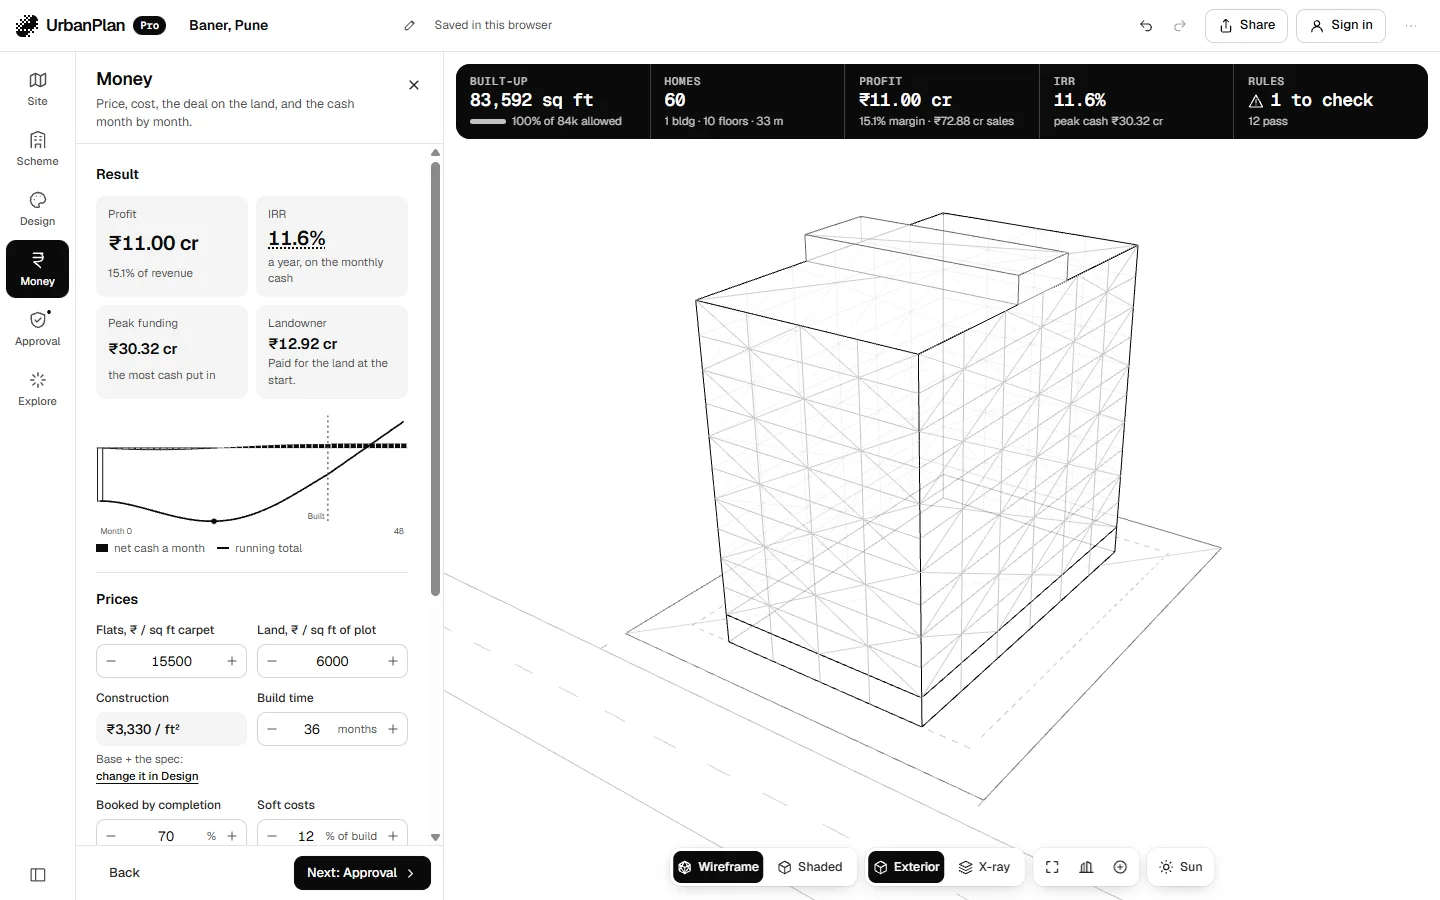
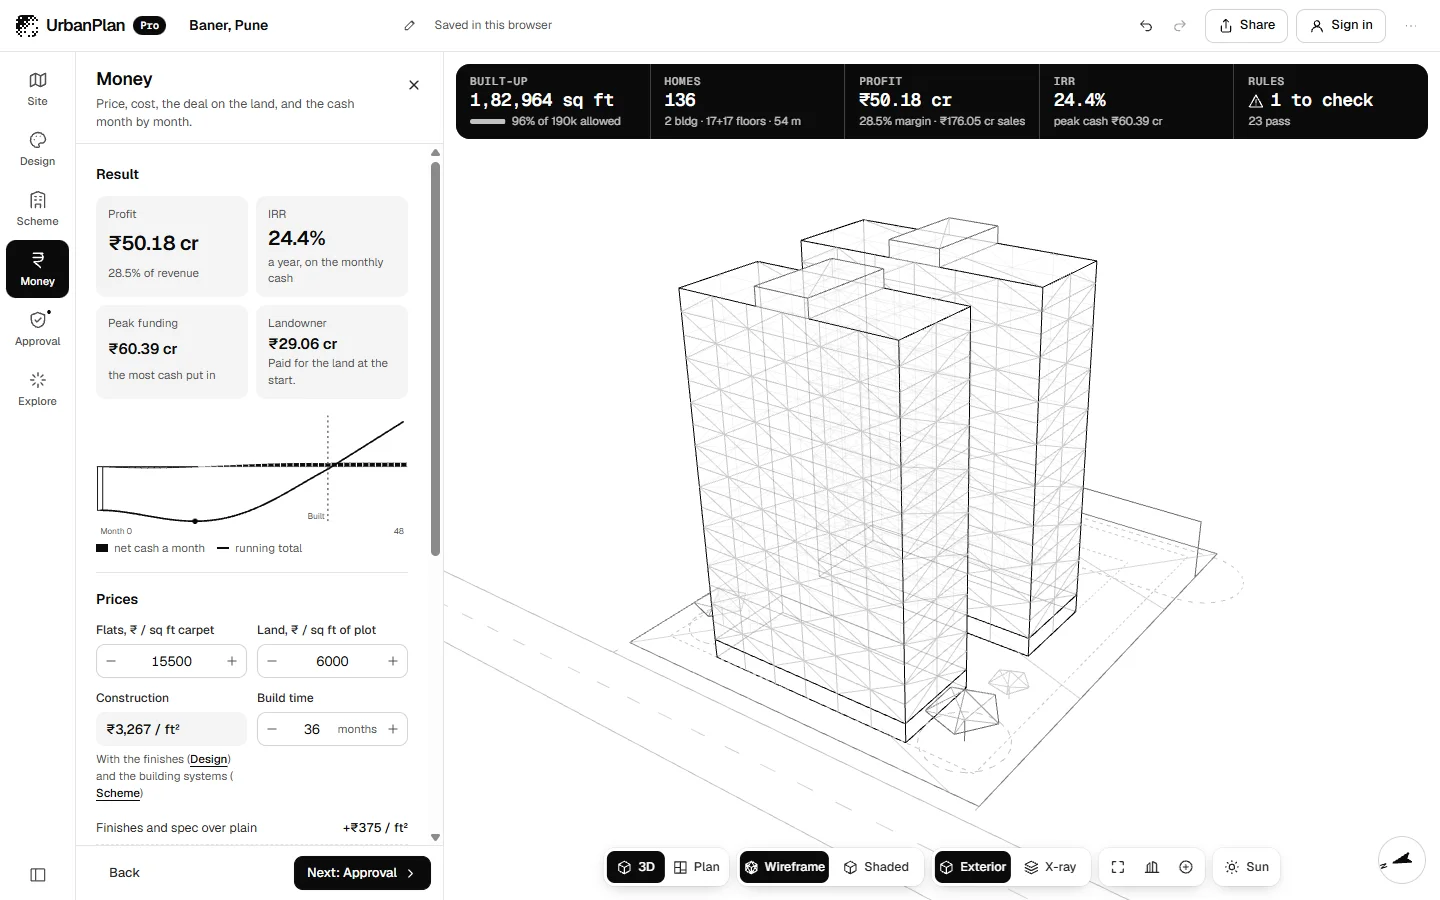
Pro: a simpler Scheme panel; landing page for the new steps
- Picking a building or element shows only its card, with a way back
- Living, flat mix, rules and a building's systems start folded
- Turn buttons fit the card; welcome dialog walks the four steps
- Landing page: steps in the new order (Site, Design, Scheme, ...),
  new copy and fresh screenshots

diff --git a/src/pro/sitePanels.tsx b/src/pro/sitePanels.tsx
@@ -136,7 +136,7 @@ export function SiteStep2({ p, e, up, toast, tool, setTool, picked, pick }: Step
         ); })()}
       </Section>
 
-      <Section title="What the rules give" sub={`On a ${nf(r.roadW)} m road${r.roadW !== (r.road?.today ?? r.roadW) ? ' (the DP width)' : ''}.`}>
+      <Section title="What the rules give" fold open={false} sub={`On a ${nf(r.roadW)} m road${r.roadW !== (r.road?.today ?? r.roadW) ? ' (the DP width)' : ''}.`}>
         <div class="stats">
           <Stat label="FSI" value={nf(r.fsi, 2)} sub={`+ ${Math.round(r.rules.ancillary * 100)}% ${r.code === 'udcpr' ? 'ancillary' : 'fungible'}`} />
           <Stat label="Built-up allowed" value={sqft(r.bua)} sub={`${nf(r.bua)} m²`} />
@@ -189,6 +189,45 @@ export function SchemeStep({ p, e, up, rooms, toast, tool, setTool, picked, pick
   const setEl = (x: Partial<SiteElement>) => { if (!el) return; const s = own(p, e); up({ scheme: { ...s, elements: s.elements.map((y) => (y.id === el.id ? { ...y, ...x } : y)) } }); };
   const nameOf = (i: number) => (p.scheme?.buildings.find((b) => b.id === d.buildings[i].b.id)?.name) ?? `Building ${String.fromCharCode(65 + i)}`;
   const deps = br ? d.departures.filter((x) => x.ids.includes(br.b.id)) : [];
+  if ((br && ownB) || el) return (
+    <>
+      <button type="button" class="backlink" onClick={() => pick(null)}><Icon n="chevron" size={14} /> All buildings</button>
+        {br && ownB && (
+      <Picked title={<>{nameOf(bi)}<small> · {nf(br.plate)} m² plate</small></>} remove={() => { up(removed(p, e, { k: 'building', id: br.b.id })); pick(null); }}>
+        {deps.map((x) => <Note tone="bad">{x.text}</Note>)}
+        <label class="f"><span class="f-l">Name</span><input class="txt" value={ownB.name ?? nameOf(bi)} onChange={(ev) => setB((b) => ({ ...b, name: (ev.target as HTMLInputElement).value }))} /></label>
+        <Row>
+          <Num label="Floors" value={br.floors} set={(v) => setB((b) => ({ ...b, floors: Math.max(1, v) }))} min={1} max={300} hint={`${br.maxFloors} fit the margins`} />
+          <Num label="Depth" value={ownB.depth} set={(v) => setB((b) => ({ ...b, depth: v }))} min={6} max={80} step={0.5} unit="m" />
+        </Row>
+        <Row>
+          <Num label="Length" value={Math.round(spineLength(ownB) * 10) / 10} set={(v) => setB((b) => stretched(b, v))} min={4} max={600} step={0.5} unit="m" />
+          <div class="f"><span class="f-l">Turn</span><div class="turns">
+            <Btn kind="ghost" title="Turn 15° anticlockwise" onClick={() => setB((b) => turned(b, -15))}>−15°</Btn>
+            <Btn kind="ghost" title="Turn 15° clockwise" onClick={() => setB((b) => turned(b, 15))}>+15°</Btn>
+            <Btn kind="ghost" title="Turn a quarter" onClick={() => setB((b) => turned(b, 90))}>90°</Btn>
+          </div></div>
+        </Row>
+        <Toggle label="Its own flat mix" value={!!ownB.mix} set={(v) => setB((b) => ({ ...b, mix: v ? [...p.mix] as [number, number, number] : undefined }))} />
+        {ownB.mix && <Row n={3}>{[0, 1, 2].map((t) => <Num label={UNIT_LABEL[t]} value={Math.round(ownB.mix![t] * 100)} set={(v) => setB((b) => { const m = [...(b.mix ?? p.mix)] as [number, number, number]; m[t] = v / 100; const s = m[0] + m[1] + m[2] || 1; return { ...b, mix: m.map((x) => x / s) as [number, number, number] }; })} max={100} step={5} unit="%" />)}</Row>}
+        <Select<string> label="Design system" value={ownB.style ?? ''} onChange={(v) => setB((b) => ({ ...b, style: v || undefined }))} options={[{ value: '', label: `The project's (${presetOf(p.style).name})` }, ...PRESETS.map((x) => ({ value: x.id, label: x.name }))]} />
+        <Row><Btn icon="plus" onClick={() => { const s = own(p, e), src = s.buildings.find((b) => b.id === br.b.id); if (!src) return; const c = { ...src, id: `b${Date.now().toString(36)}`, name: `${src.name ?? 'Building'} copy`, spine: src.spine.map((q, i) => q + (i % 2 ? 0 : src.depth + 6)) }; up({ scheme: { ...s, buildings: [...s.buildings, c] } }); pick({ k: 'building', id: c.id }); }}>Duplicate</Btn></Row>
+        <Section title="Systems" fold open={false} sub="Stairs, lifts, ducts, plumbing, power and fire: sized for it, each one yours to set."><SystemsPanel b={br} settings={mergeSettings(p.systems?.byBuilding?.[br.b.id], p.systems?.site)} under={d.under} floorH={r.rules.floorH} code={r.code} name={nameOf(bi)} basements={d.site.basements} bays={d.parking.have}
+          set={(x) => { const { building, plant } = splitSettings(x); up({ systems: { site: plant, byBuilding: { ...(p.systems?.byBuilding ?? {}), [br.b.id]: building } } }); }} /></Section>
+        <Section title="Flat plans" fold open={false} sub="Rooms fitted into each flat of a typical floor, checked against the minimum room sizes.">
+          <div class="flats">{(rooms[bi] ?? []).filter((fr, k, a) => fr.t < 3 && fr.rooms.length && a.findIndex((y) => y.t === fr.t) === k).map((fr) => <FlatPlan t={fr.t} fr={fr} />)}</div>
+        </Section>
+      </Picked>
+    )}
+    {el && (
+      <Picked title={ELEMENT_TOOLS.find((x) => x.kind === el.kind)?.label ?? 'On the site'} remove={() => { up(removed(p, e, { k: 'element', id: el.id })); pick(null); }}>
+        {el.kind === 'road' && <Select<number> label="Width" value={el.depth} onChange={(v) => setEl({ depth: v })} options={INTERNAL_WIDTHS.map((w) => ({ value: w, label: `${w} m` }))} />}
+        {el.kind === 'parking' && <Num label="Levels" value={el.levels ?? 3} set={(v) => setEl({ levels: v })} min={1} max={12} />}
+        <Note>Drag it on the map to move it.</Note>
+      </Picked>
+    )}
+    </>
+  );
   return (
     <>
       <Section title="Fill the plot" aside={owned ? <span class="sec-meta">shaped by hand</span> : <span class="sec-meta">live</span>}>
@@ -205,7 +244,7 @@ export function SchemeStep({ p, e, up, rooms, toast, tool, setTool, picked, pick
           </>}
       </Section>
 
-      <Section title="Living" sub="What the site gives the people in it." fold open={!owned}>
+      <Section title="Living" sub="Green, play, roads inside, spacing and parking." fold open={false} aside={<span class="sec-meta">{f.green ? `${f.green}% green` : 'as the rules ask'}</span>}>
         <Slider label="Green" value={f.green} set={(v) => setFill({ green: v })} min={0} max={50} step={5} fmt={(v) => (v ? `At least ${v}% of the plot` : 'What the rules ask')} />
         <Toggle label="Play area" hint="In the open space" value={f.play} set={(v) => setFill({ play: v })} />
         <Seg value={f.access} set={(v) => setFill({ access: v })} label="Roads inside" options={ACCESS.map((a) => ({ value: a.value, label: a.label, title: a.title }))} />
@@ -215,7 +254,7 @@ export function SchemeStep({ p, e, up, rooms, toast, tool, setTool, picked, pick
         {owned && <Note>These apply when you fill again; parking and basements apply now.</Note>}
       </Section>
 
-      <Section title="Flat mix" aside={<span class="sec-meta">{d.flats} flats</span>} sub="Every building, unless one has its own.">
+      <Section title="Flat mix" fold open={false} aside={<span class="sec-meta">{d.flats} flats</span>} sub="Every building, unless one has its own.">
         <div class="mixbar" aria-hidden="true">{[0, 1, 2].map((i) => <i class={`m${i}`} style={`flex:${p.mix[i] || 0.0001}`}>{mixPct[i] >= 12 ? `${mixPct[i]}%` : ''}</i>)}</div>
         <Row n={3}>{[0, 1, 2].map((i) => <Num label={UNIT_LABEL[i]} value={mixPct[i]} set={(v) => setMix(i, v)} max={100} step={5} unit="%" />)}</Row>
         <Note>{[0, 1, 2].filter((t) => d.count[t]).map((t) => `${d.count[t]} × ${UNIT_LABEL[t]}`).join(' · ') || 'No flats fit.'}</Note>
@@ -237,40 +276,6 @@ export function SchemeStep({ p, e, up, rooms, toast, tool, setTool, picked, pick
           </li>
         ))}</ul>
         {!d.buildings.length && <Note tone="warn">No buildings. Fill the plot, or add one from above.</Note>}
-        {br && ownB && (
-          <Picked title={<>{nameOf(bi)}<small> · {nf(br.plate)} m² plate</small></>} remove={() => { up(removed(p, e, { k: 'building', id: br.b.id })); pick(null); }}>
-            {deps.map((x) => <Note tone="bad">{x.text}</Note>)}
-            <label class="f"><span class="f-l">Name</span><input class="txt" value={ownB.name ?? nameOf(bi)} onChange={(ev) => setB((b) => ({ ...b, name: (ev.target as HTMLInputElement).value }))} /></label>
-            <Row>
-              <Num label="Floors" value={br.floors} set={(v) => setB((b) => ({ ...b, floors: Math.max(1, v) }))} min={1} max={300} hint={`${br.maxFloors} fit the margins`} />
-              <Num label="Depth" value={ownB.depth} set={(v) => setB((b) => ({ ...b, depth: v }))} min={6} max={80} step={0.5} unit="m" />
-            </Row>
-            <Row>
-              <Num label="Length" value={Math.round(spineLength(ownB) * 10) / 10} set={(v) => setB((b) => stretched(b, v))} min={4} max={600} step={0.5} unit="m" />
-              <div class="f"><span class="f-l">Turn</span><div class="turns">
-                <Btn kind="ghost" title="Turn 15° anticlockwise" onClick={() => setB((b) => turned(b, -15))}>−15°</Btn>
-                <Btn kind="ghost" title="Turn 15° clockwise" onClick={() => setB((b) => turned(b, 15))}>+15°</Btn>
-                <Btn kind="ghost" title="Turn a quarter" onClick={() => setB((b) => turned(b, 90))}>90°</Btn>
-              </div></div>
-            </Row>
-            <Toggle label="Its own flat mix" value={!!ownB.mix} set={(v) => setB((b) => ({ ...b, mix: v ? [...p.mix] as [number, number, number] : undefined }))} />
-            {ownB.mix && <Row n={3}>{[0, 1, 2].map((t) => <Num label={UNIT_LABEL[t]} value={Math.round(ownB.mix![t] * 100)} set={(v) => setB((b) => { const m = [...(b.mix ?? p.mix)] as [number, number, number]; m[t] = v / 100; const s = m[0] + m[1] + m[2] || 1; return { ...b, mix: m.map((x) => x / s) as [number, number, number] }; })} max={100} step={5} unit="%" />)}</Row>}
-            <Select<string> label="Design system" value={ownB.style ?? ''} onChange={(v) => setB((b) => ({ ...b, style: v || undefined }))} options={[{ value: '', label: `The project's (${presetOf(p.style).name})` }, ...PRESETS.map((x) => ({ value: x.id, label: x.name }))]} />
-            <Row><Btn icon="plus" onClick={() => { const s = own(p, e), src = s.buildings.find((b) => b.id === br.b.id); if (!src) return; const c = { ...src, id: `b${Date.now().toString(36)}`, name: `${src.name ?? 'Building'} copy`, spine: src.spine.map((q, i) => q + (i % 2 ? 0 : src.depth + 6)) }; up({ scheme: { ...s, buildings: [...s.buildings, c] } }); pick({ k: 'building', id: c.id }); }}>Duplicate</Btn></Row>
-            <SystemsPanel b={br} settings={mergeSettings(p.systems?.byBuilding?.[br.b.id], p.systems?.site)} under={d.under} floorH={r.rules.floorH} code={r.code} name={nameOf(bi)} basements={d.site.basements} bays={d.parking.have}
-              set={(x) => { const { building, plant } = splitSettings(x); up({ systems: { site: plant, byBuilding: { ...(p.systems?.byBuilding ?? {}), [br.b.id]: building } } }); }} />
-            <Section title="Flat plans" fold open={false} sub="Rooms fitted into each flat of a typical floor, checked against the minimum room sizes.">
-              <div class="flats">{(rooms[bi] ?? []).filter((fr, k, a) => fr.t < 3 && fr.rooms.length && a.findIndex((y) => y.t === fr.t) === k).map((fr) => <FlatPlan t={fr.t} fr={fr} />)}</div>
-            </Section>
-          </Picked>
-        )}
-        {el && (
-          <Picked title={ELEMENT_TOOLS.find((x) => x.kind === el.kind)?.label ?? 'On the site'} remove={() => { up(removed(p, e, { k: 'element', id: el.id })); pick(null); }}>
-            {el.kind === 'road' && <Select<number> label="Width" value={el.depth} onChange={(v) => setEl({ depth: v })} options={INTERNAL_WIDTHS.map((w) => ({ value: w, label: `${w} m` }))} />}
-            {el.kind === 'parking' && <Num label="Levels" value={el.levels ?? 3} set={(v) => setEl({ levels: v })} min={1} max={12} />}
-            <Note>Drag it on the map to move it.</Note>
-          </Picked>
-        )}
       </Section>
 
       <Section title="Shops at the front" fold open={sh.floors > 0} aside={shops ? <span class="sec-meta">{shops.count} shops</span> : undefined}>

diff --git a/src/site/Landing.tsx b/src/site/Landing.tsx
@@ -13,9 +13,9 @@ const DP = href('pune/dp-report/');
 const REPORT = href('site/sample-report.html');
 
 const STEPS = [
-  { key: 'site', label: 'Site', title: 'Find the plot', body: 'By survey or CTS number, or draw it. Its roads, the DP widening and the rules it falls under.' },
-  { key: 'scheme', label: 'Scheme', title: 'The most it can hold', body: 'Towers or slabs, the flat mix, shops at the front, parking. Checked against the rules as you go.' },
-  { key: 'design', label: 'Design', title: 'Flats, room by room', body: 'Every flat planned and checked for room sizes and light. Facades, windows and the specification.' },
+  { key: 'site', label: 'Site', title: 'Draw the site', body: 'The plot, its roads at the city’s widths, levels and north. Trees, power lines and no-build zones, on the map.' },
+  { key: 'design', label: 'Design', title: 'A design system', body: 'Facade, windows, floors and finishes from a library of materials. Save it, change it, use it on any building.' },
+  { key: 'scheme', label: 'Scheme', title: 'Every building yours', body: 'Fill the plot to your settings, or place, turn and size each building. Its own flat mix, lifts, stairs and services.' },
   { key: 'money', label: 'Money', title: 'Is it worth it', body: 'Price, cost and the land deal. Profit, IRR and the cash, month by month.' },
   { key: 'approval', label: 'Approval', title: 'Ready for the authority', body: 'The scrutiny, NOCs, fees and documents. Drawings, IFC and a PreDCR DXF.' },
   { key: 'explore', label: 'Explore', title: 'Every option', body: 'Many schemes at once, a written brief, plots screened side by side.' },
@@ -23,8 +23,8 @@ const STEPS = [
 
 const FEATURES: { icon: keyof typeof Icon; title: string; body: string }[] = [
   { icon: 'check', title: 'The rules, live', body: 'UDCPR and Mumbai’s DCPR 2034, checked clause by clause every time you change something.' },
-  { icon: 'building', title: 'The most it can hold', body: 'Built-up, height, margins and parking worked out for the plot and its roads, DP widening included.' },
-  { icon: 'cube', title: 'In 3D as you go', body: 'The scheme as a wireframe that updates with every change, or shaded with the sun on any date.' },
+  { icon: 'building', title: 'Shape it your way', body: 'Fill the plot to the most it can hold, or draw each building yourself. The rules flag, never block.' },
+  { icon: 'cube', title: 'On the map, in 3D or plan', body: 'Draw and drag on a wireframe that updates with every change, or shade it with the sun on any date.' },
   { icon: 'sheet', title: 'Numbers you can take to a meeting', body: 'Revenue, cost, profit and IRR, the land deal and the cash month by month.' },
   { icon: 'section', title: 'Drawings for the authority', body: 'Plans, sections and the area statement; IFC, and a DXF on PreDCR’s layers.' },
   { icon: 'people', title: 'Work on it together', body: 'Share a link, invite the team, leave comments on any step.' },
@@ -101,7 +101,7 @@ export function Landing() {
         <div class="wrap">
           <div class="section-head center reveal">
             <h2>Six steps, plot to approval.</h2>
-            <p>One project, every number live. Change the flat mix and the profit, the parking and the fees follow.</p>
+            <p>Draw the site, set the look, shape the buildings. Every number follows as you go.</p>
           </div>
           <Steps />
         </div>

diff --git a/src/pro/pro.css b/src/pro/pro.css
@@ -495,7 +495,8 @@ textarea.txt { resize: vertical; min-height: 64px; }
 .picked > header { display: flex; align-items: center; gap: 8px; justify-content: space-between; }
 .picked > header b { font-size: 14px; } .picked > header small { color: var(--up-muted); font-weight: 400; }
 .picked .sec { border: 0; padding: 0; margin: 0; }
-.turns { display: flex; gap: 4px; }
+.turns { display: grid; grid-template-columns: repeat(3, 1fr); gap: 4px; }
+.turns .btn { min-width: 0; padding: 0 4px; }
 /* roads along the edges */
 .edges { display: grid; gap: 6px; }
 .edge { display: grid; grid-template-columns: minmax(0, 1fr) auto auto; gap: 6px; align-items: center; padding: 6px 0; border-bottom: 1px solid var(--up-line); }
@@ -518,3 +519,12 @@ li[aria-current="true"] > .bitem, li[aria-current="true"] > .fitem { border-colo
 .compass .needle .ico { fill: var(--up-ink); }
 @media (prefers-reduced-motion: reduce) { .compass .needle { transition: none; } }
 @media (max-width: 900px) { .drawhint { top: 76px; font-size: 12px; } .compass { top: 84px; bottom: auto; right: 10px; width: 42px; height: 42px; } }
+
+/* back from a picked item to the list */
+.backlink { display: inline-flex; align-items: center; gap: 4px; border: 0; background: none; padding: 4px 0 12px; font-size: 12.5px; font-weight: 500; color: var(--up-ink-2); cursor: pointer; }
+.backlink:hover { color: var(--up-ink); }
+.backlink svg { transform: rotate(180deg); }
+.wsteps { margin: 0; padding: 0; list-style: none; counter-reset: w; display: grid; gap: 6px; font-size: 13px; color: var(--up-ink-2); }
+.wsteps li { counter-increment: w; display: grid; grid-template-columns: 22px auto 1fr; gap: 8px; align-items: baseline; }
+.wsteps li::before { content: counter(w); font-family: var(--up-font-mono); font-size: 11px; color: var(--up-muted); }
+.wsteps b { color: var(--up-ink); font-weight: 600; }

diff --git a/src/pro/main.tsx b/src/pro/main.tsx
@@ -536,7 +536,8 @@ function Welcome({ close }: { close: (p?: ProProject) => void }) {
   const [w, setW] = useState(30), [dpt, setD] = useState(40), [road, setRoad] = useState(12), [city, setCity] = useState<ProProject['city']>('pune');
   return (
     <Dialog title="Size up a plot in a minute" close={() => close()} wide>
-      <p class="note">Give the plot and its road. You get the most the rules let you build, a scheme in 3D, the money and our own scrutiny, all at once. Change anything after.</p>
+      <p class="note">Give the plot and its road: you get the most the rules allow, in 3D, with the money and the scrutiny. Then work it through in four steps.</p>
+      <ol class="wsteps"><li><b>Site</b> Draw the plot, roads, trees and no-build zones on the map.</li><li><b>Design</b> The look and the materials.</li><li><b>Scheme</b> Fill the plot, or place and shape each building yourself.</li><li><b>Money · Approval</b> What it earns and what the rules say.</li></ol>
       <div class="row r2">
         <Select<ProProject['city']> label="Planning authority" value={city} onChange={setCity} options={[{ value: 'pune', label: 'Pune (UDCPR)' }, { value: 'pune-congested', label: 'Pune old city' }, { value: 'mumbai-suburbs', label: 'Mumbai suburbs' }, { value: 'mumbai-island', label: 'Mumbai island city' }]} />
         <Num label="Road in front" value={road} set={setRoad} min={3} max={80} unit="m" />
